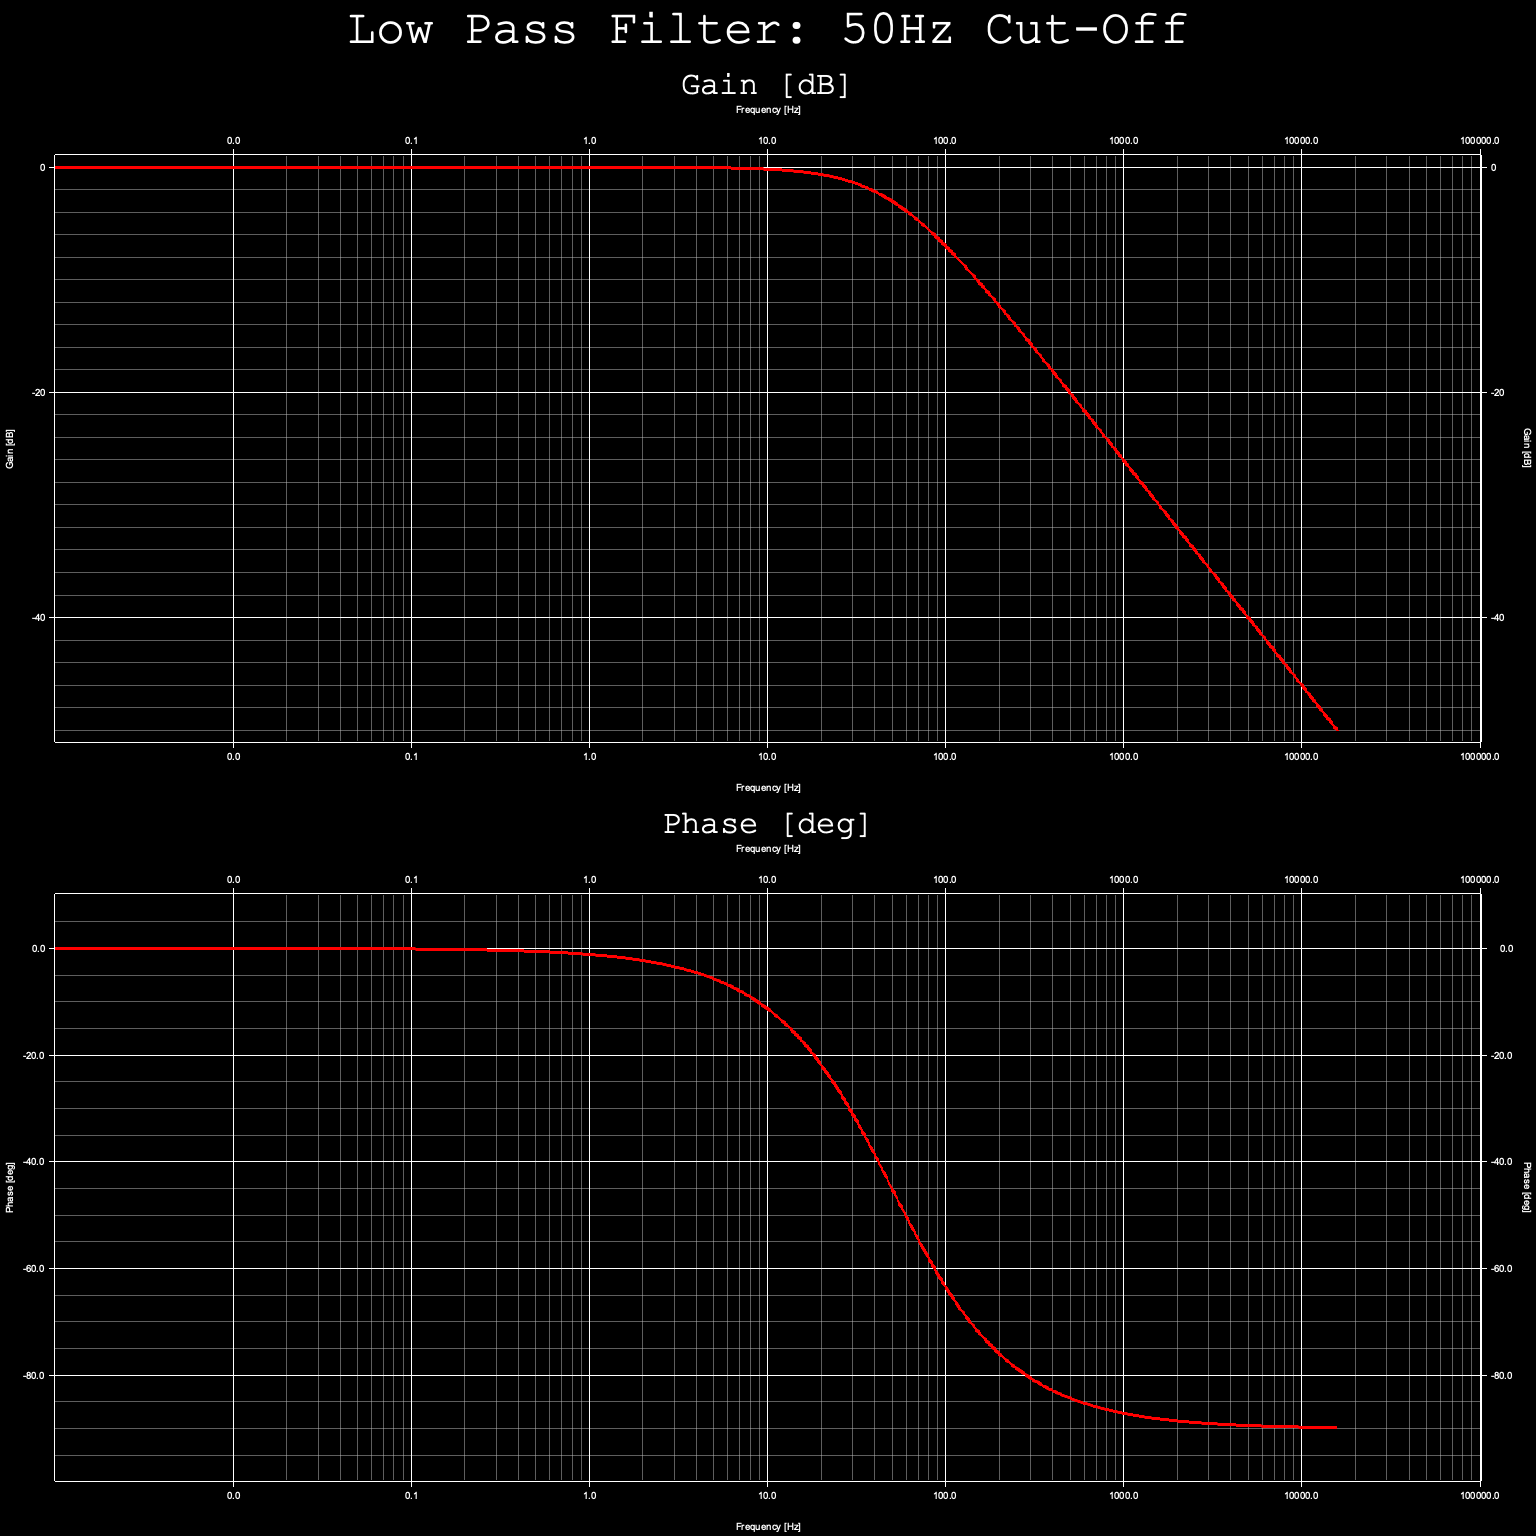
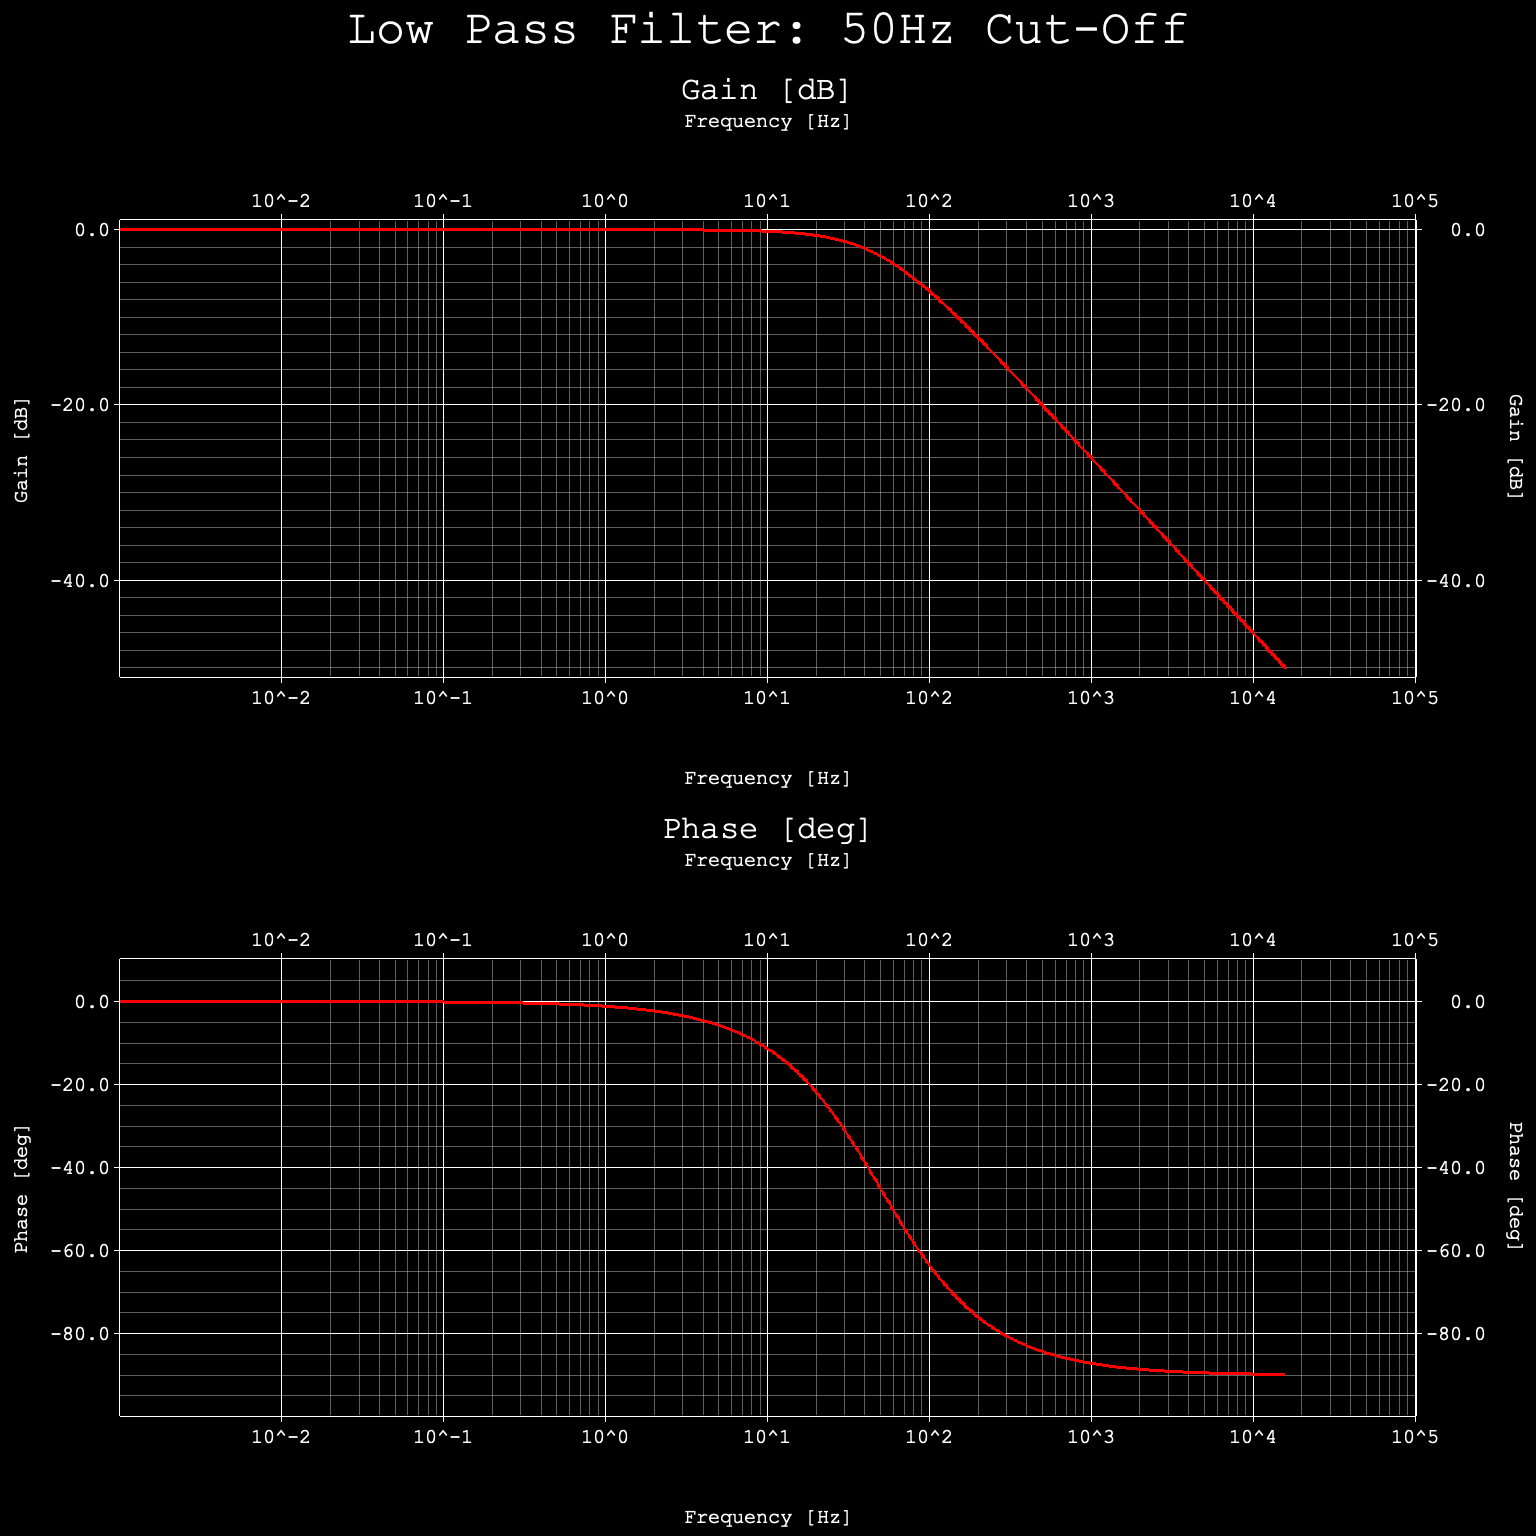
updated ploting styles, cleaned up main

Changed region(s): [[0.0, 0.0312, 1.0, 1.0], [0.0, 0.75, 0.0625, 0.8125], [0.0312, 0.6875, 0.0625, 0.7188]]

diff --git a/src/transfer_function.rs b/src/transfer_function.rs
@@ -3,12 +3,34 @@ use num;
 use plotters::prelude::*;
 use std::{f64::consts::PI, f64::INFINITY, str};
 
+/*
+
+@TODO!
+   - add Bode Plot struct with default setups
+   - add more filters
+   - add Transfer Function operators
+   - add z-transform
+   - add ability to get discrete filter coefficients
+   - add signal generator struct
+
+*/
+
 pub struct TransferFunction {
     // increasing powers of s
     numerator: Vec<f64>,
 
     // increasing powers of s
     denominator: Vec<f64>,
+}
+
+impl Default for TransferFunction {
+    fn default() -> Self {
+        // Default behavior returns an integrator
+        Self {
+            numerator: vec![1.0],
+            denominator: vec![0.0, 1.0],
+        }
+    }
 }
 
 impl TransferFunction {
@@ -56,8 +78,8 @@ impl TransferFunction {
         };
 
         let mut cc = ChartBuilder::on(&upper)
-            .margin(5)
-            .set_all_label_area_size(50)
+            .margin(10)
+            .set_all_label_area_size(110)
             .caption("Gain [dB]", ("monospace", 40).into_font().color(&WHITE))
             .build_cartesian_2d(cx.clone().log_scale(), (mmin - 1.0)..(mmax + 1.0))
             .unwrap();
@@ -74,26 +96,14 @@ impl TransferFunction {
             })
             .x_labels(20)
             .y_labels(5)
-            .x_label_formatter(&|v| format!("{:.1}", v))
-            .x_desc("Frequency [Hz]")
-            .x_label_style(&WHITE)
-            .y_label_formatter(&|v| {
-                let mut num = v
-                    .abs()
-                    .to_string()
-                    .as_bytes()
-                    .rchunks(3)
-                    .rev()
-                    .map(str::from_utf8)
-                    .collect::<Result<Vec<&str>, _>>()
-                    .unwrap()
-                    .join(",");
-                if v < &0.0 {
-                    num = format!("-{num}");
-                }
-                num
+            .x_label_formatter(&|v| {
+                let power = v.log10();
+                format!("10^{power}")
             })
-            .y_label_style(&WHITE)
+            .x_desc("Frequency [Hz]")
+            .x_label_style(("monospace", 25, &WHITE).into_text_style(upper))
+            .y_label_formatter(&|v| format!("{:.1}", v))
+            .y_label_style(("monospace", 25, &WHITE).into_text_style(upper))
             .y_desc("Gain [dB]")
             .draw()
             .unwrap();
@@ -130,8 +140,8 @@ impl TransferFunction {
         };
 
         let mut cc = ChartBuilder::on(&lower)
-            .margin(5)
-            .set_all_label_area_size(50)
+            .margin(10)
+            .set_all_label_area_size(110)
             .caption("Phase [deg]", ("monospace", 40).into_font().color(&WHITE))
             .build_cartesian_2d(cx.log_scale(), (pmin - 10.0)..(pmax + 10.0))
             .unwrap();
@@ -148,11 +158,14 @@ impl TransferFunction {
             })
             .x_labels(20)
             .y_labels(5)
-            .x_label_formatter(&|v| format!("{:.1}", v))
+            .x_label_formatter(&|v| {
+                let power = v.log10();
+                format!("10^{power}")
+            })
             .x_desc("Frequency [Hz]")
-            .x_label_style(&WHITE)
+            .x_label_style(("monospace", 25, &WHITE).into_text_style(lower))
             .y_label_formatter(&|v| format!("{:.1}", v))
-            .y_label_style(&WHITE)
+            .y_label_style(("monospace", 25, &WHITE).into_text_style(lower))
             .y_desc("Phase [deg]")
             .draw()
             .unwrap();

diff --git a/src/main.rs b/src/main.rs
@@ -1,43 +1,34 @@
-use std::time;
-
 mod filters;
 mod transfer_function;
 
+use std::time;
+
 fn main() {
-    let cut_off = 50;
-
+    // Low Pass Filter
     let start = time::Instant::now();
-    let lpf = filters::LowPassFilter::new(cut_off.into());
-    let create = start.elapsed().as_micros();
 
+    let cut_off = 50;
+    let lpf = filters::LowPassFilter::new(cut_off.into());
     lpf.plot_bode("media/LPF_bode.png".into());
-    let lpf_bode = start.elapsed().as_micros();
+
+    let dur = start.elapsed().as_micros();
+    println!("Low Pass Filter: {:.3}.{:.3}ms", dur / 1000, dur % 1000);
+
+    // second order transfer function
+    let start = time::Instant::now();
 
     let tf = transfer_function::TransferFunction::new(vec![16.0], vec![16.0, 8.0 * 0.05, 1.0]);
-    let tf_create = start.elapsed().as_micros();
-
     tf.plot_bode("media/TF_bode.png", "Second Order System");
-    let tf_plot = start.elapsed().as_micros();
 
-    println!(
-        "Total Time: {:.3}.{:.3}ms",
-        (tf_plot / 1000),
-        tf_plot % 1000
-    );
-    println!("LPF Create: {:.3}.{:.3}ms", create / 1000, create % 1000);
-    println!(
-        "LPF Plot: {:.3}.{:.3}ms",
-        (lpf_bode - create) / 1000,
-        (lpf_bode - create) % 1000
-    );
-    println!(
-        "TF Create: {:.3}.{:.3}ms",
-        (tf_create - lpf_bode) / 1000,
-        (tf_create - lpf_bode) % 1000
-    );
-    println!(
-        "TF Plot: {:.3}.{:.3}ms",
-        (tf_plot - tf_create) / 1000,
-        (tf_plot - tf_create) % 1000
-    );
+    let dur = start.elapsed().as_micros();
+    println!("Second Order TF: {:.3}.{:.3}ms", dur / 1000, dur % 1000);
+
+    // Integrator
+    let start = time::Instant::now();
+
+    let integrator = transfer_function::TransferFunction::default();
+    integrator.plot_bode("media/integrator_bode.png", "Integrator");
+
+    let dur = start.elapsed().as_micros();
+    println!("Integrator: {:.3}.{:.3}ms", dur / 1000, dur % 1000);
 }
